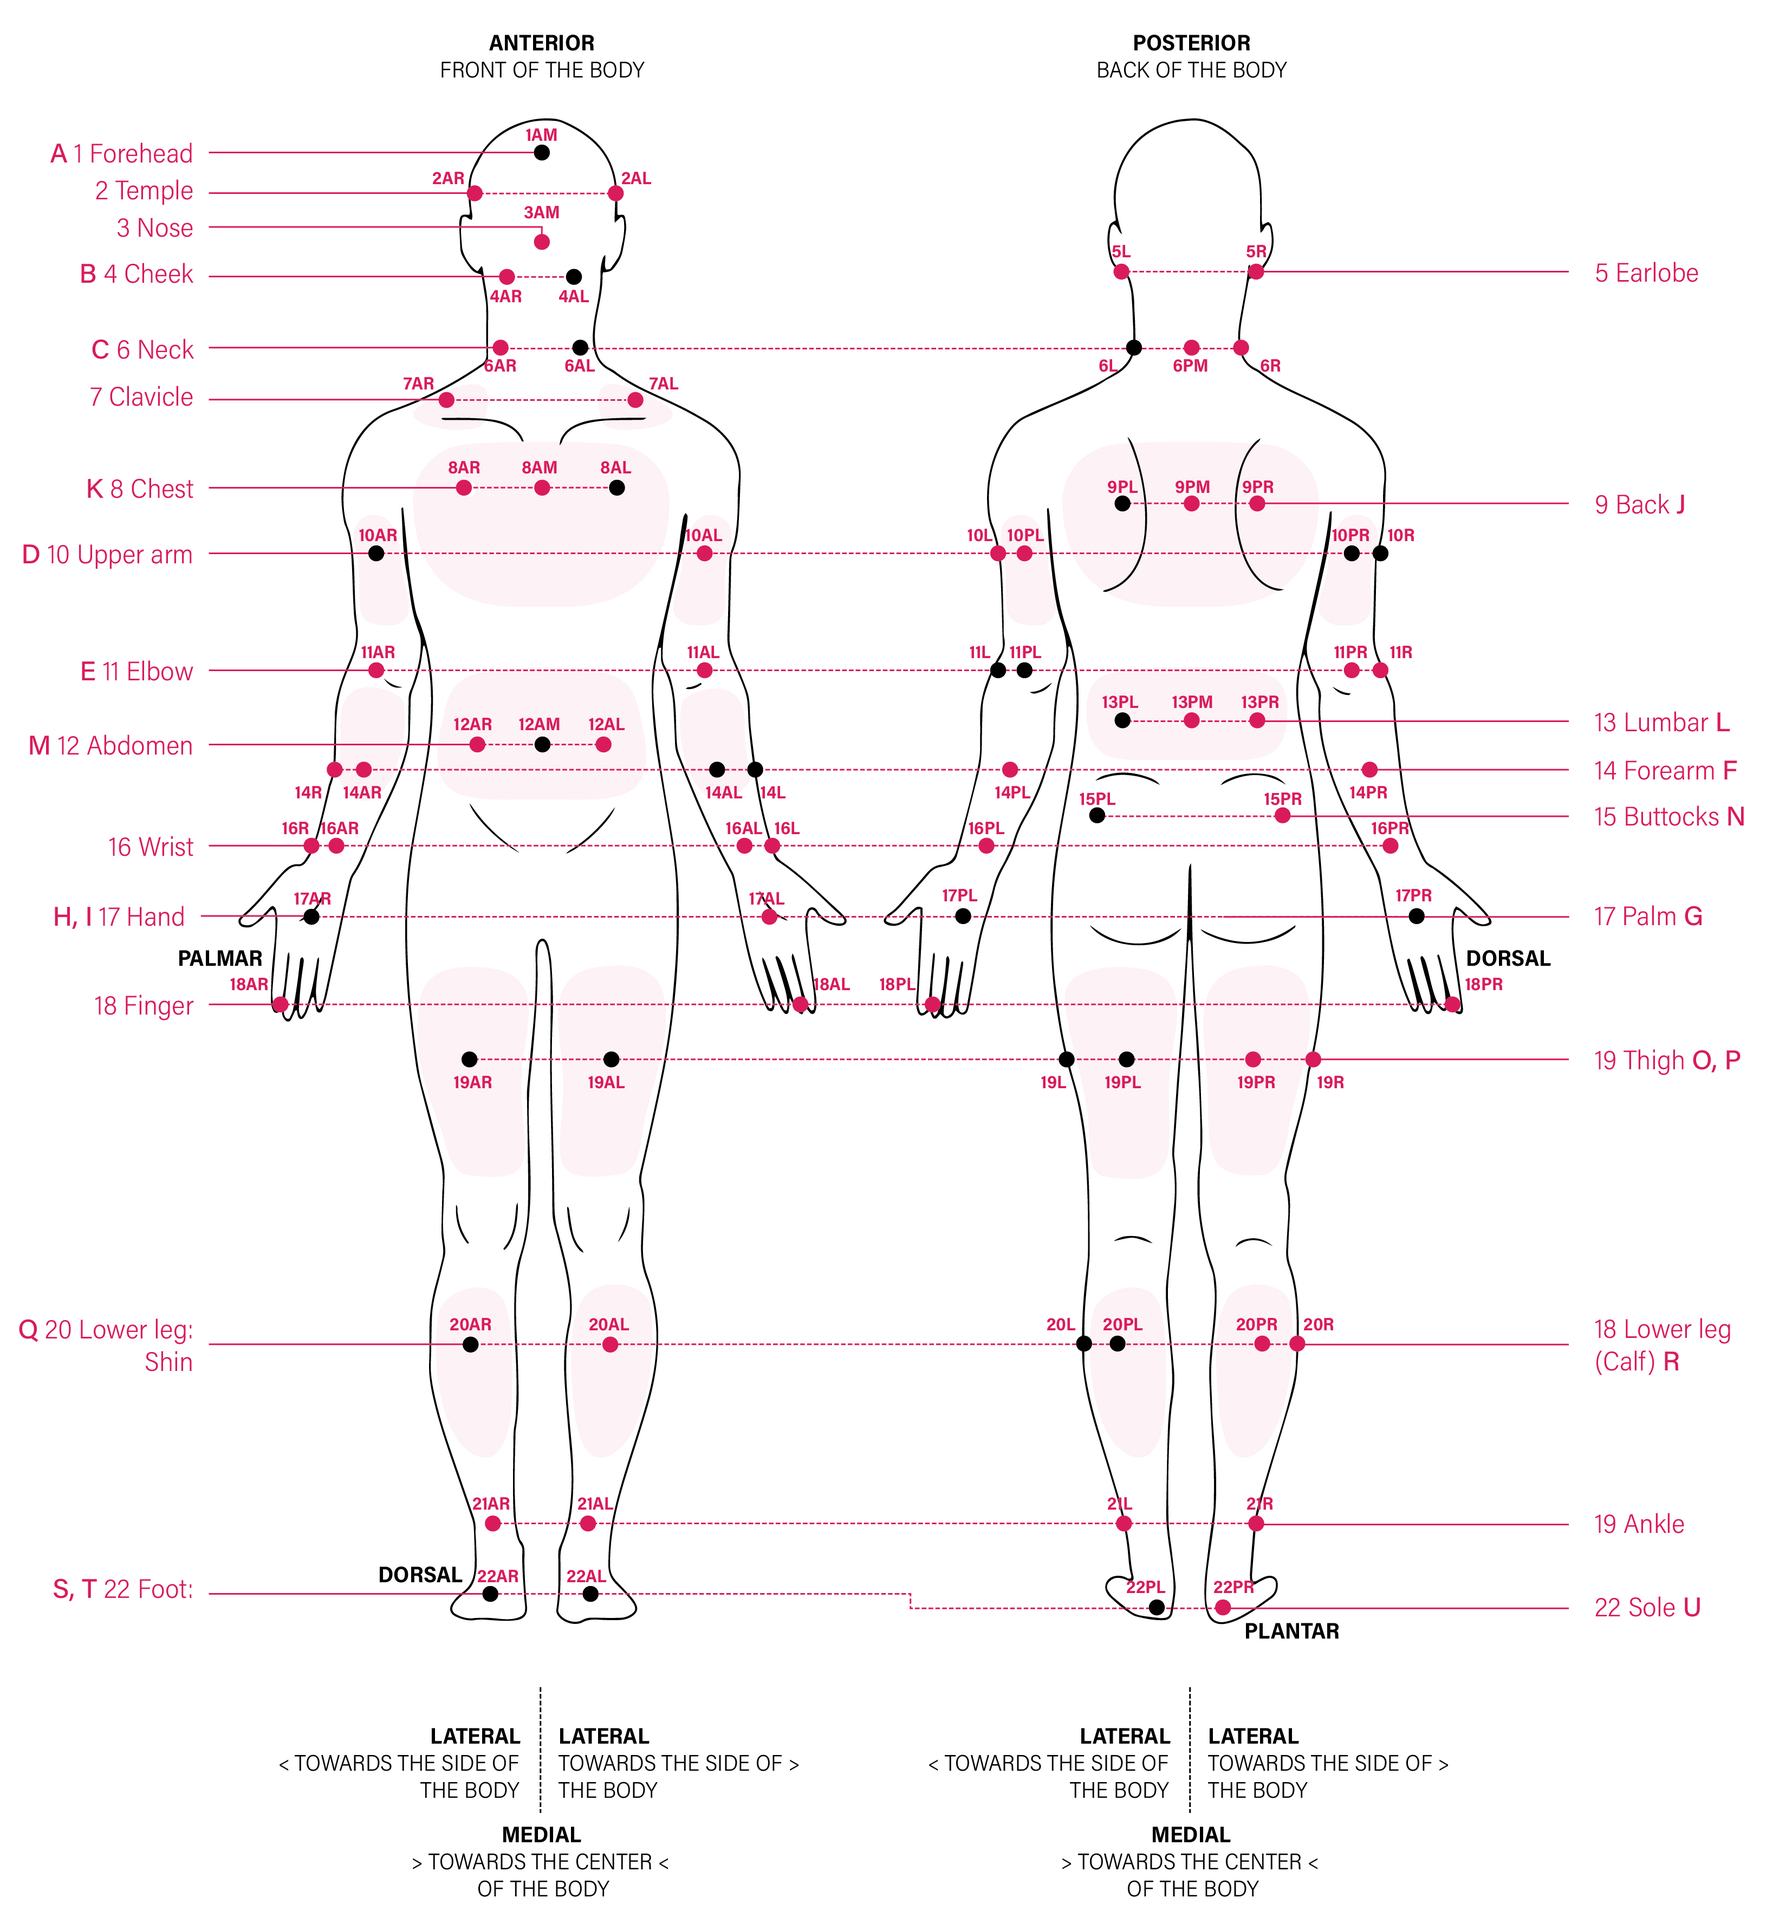
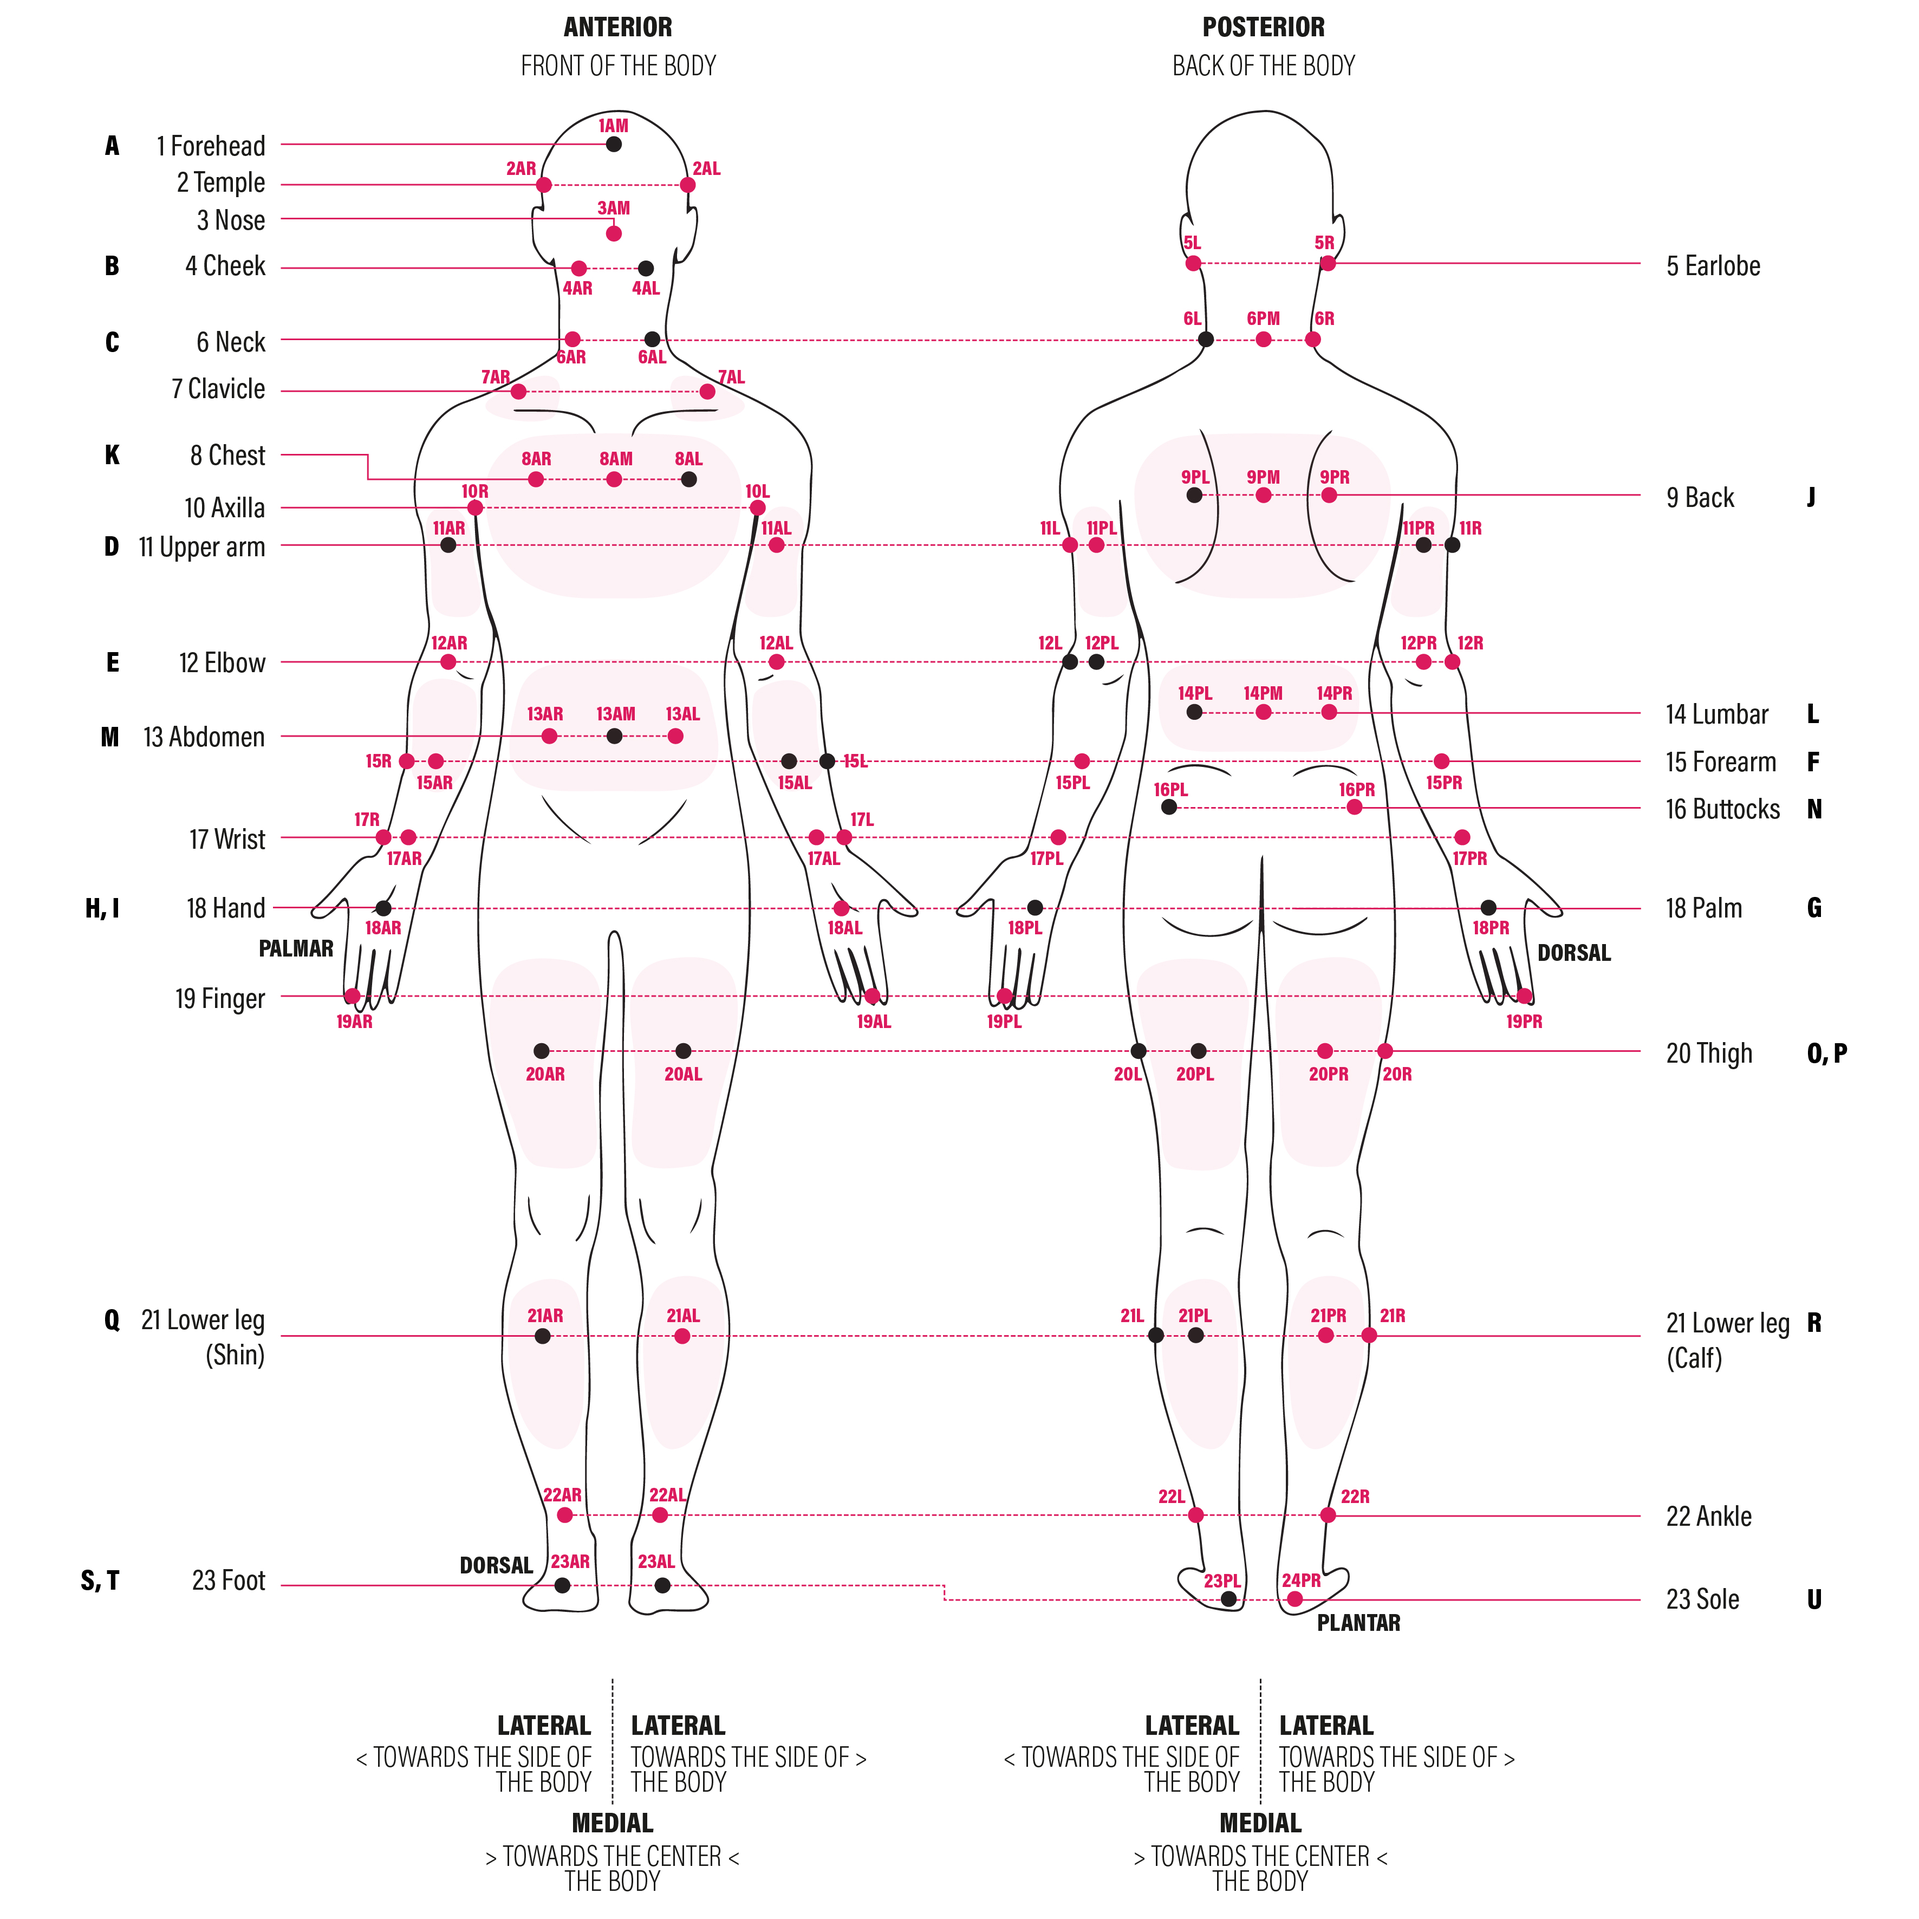
broken link maintenance

diff --git a/book/content/terminological-alignment/anatomical-reference-taxonomy.md b/book/content/terminological-alignment/anatomical-reference-taxonomy.md
@@ -4,7 +4,7 @@ This section compiles anatomical sites used for surface and internal physiologic
 
 Letters A--U from the previous chapter, {ref}`Mean Skin Temperature formulas <mean-skin-temperature-formulas>` are retained solely to map historical formulas to the standardised regions shown in the below Figure and Table.
 
-```{figure} C:/Users/kobas/00_Repos/2511_WhyWeMeasureWhat_Git/book/assets/figures/anatomical-taxonomy.jpg
+```{figure} ../../assets/figures/anatomical-taxonomy.jpg
 :name: fig-anatomical-taxonomy
 :width: 90%
 :alt: Body sites for surface measurements
@@ -20,28 +20,29 @@ Black points indicate site aspects explicitly represented in historical MST form
 
 | **Body domain** | **Region code** | **Site / region** | **{ref}`Laterality <label-laterality>`** | **Aspect / surface** | **Common aliases / variants** | **Typical modalities / signals** | **MST code(s)** | **Notes** |
 |---|---|---|---|---|---|---|---|---|
-| **Head** | 1 | Forehead | Midline | Anterior | Frontal region, brow | Skin temperature, IRT, zero-heat-flux CBT | A | Common in MST and facial thermography |
-|  | 2 | Temple | Left, Right | Lateral | Temporal region | IRT, facial temperature | — | Often analysed separately from forehead in facial thermography |
-|  | 3 | Nose | Midline | Anterior | Nasal dorsum, nasal tip, alar region | IRT, facial temperature | — | Relevant for respiratory heat exchange and facial thermography |
+| **Head** | 1 | Forehead | Midline | Anterior | Frontal region, brow | {ref}`Skin temperature <skin-temperature>`, IRT, zero-heat-flux CBT | A | Common in MST and facial thermography |
+|  | 2 | Temple | Left, Right | Lateral | Temporal region | Skin temperature, IRT | — | Often analysed separately from forehead in facial thermography |
+|  | 3 | Nose | Midline | Anterior | Nasal dorsum, nasal tip, alar region | Skin temperature, IRT | — | Relevant for respiratory heat exchange and facial thermography |
 |  | 4 | Cheek | Left, Right | Anterior | Malar region, zygomatic arch | Skin temperature, IRT | B | Common in facial thermography |
-|  | 5 | Earlobe | Left, Right | Inferior, Lateral | Auricular lobe | PPG, pulse oximetry, temperature | — | Sometimes preferred over finger because of local perfusion stability |
+|  | 5 | Earlobe | Left, Right | Inferior, Lateral | Auricular lobe | PPG, pulse oximetry | — | Sometimes preferred over finger because of local perfusion stability |
 |  | 6 | Neck | Midline, Left, Right | Anterior, Posterior, Lateral | Sternocleidomastoid, nape, nuchal area | Skin temperature, IRT | C | Exact placement should be specified |
-|  | 7 | Clavicular / supraclavicular region | Left, Right | Superior, Anterior | Supraclavicular fossa, clavicular region, over-the-shoulder region | IRT, skin temperature | — | Frequently used in BAT-related thermography studies |
+|  | 7 | Clavicular / supraclavicular region | Left, Right | Superior, Anterior | Supraclavicular fossa, clavicular region, over-the-shoulder region | Skin temperature, IRT | — | Frequently used in BAT-related thermography studies |
 | **Trunk** | 8 | Chest | Midline, Left, Right | Anterior | Pectoral region, sternum, thorax | Skin temperature, ECG, respiration, accelerometry | K | Must distinguish sternum from lateral chest |
-|  | 9 | Back | Midline, Left, Right | Posterior | Scapular, interscapular, upper thoracic region | Skin temperature, IRT | J | Should be distinguished from lumbar |
-|  | 10 | Upper arm | Left, Right | Anterior, Posterior, Lateral | Biceps, triceps, deltoid region | Skin temperature, cuff BP, PPG | D | Distinguish upper-arm skin from brachial cuff site |
-|  | 11 | Elbow | Left, Right | Anterior, Posterior | Cubital fossa, olecranon | Skin temperature | E | Anterior and posterior elbow are not equivalent |
-|  | 12 | Abdomen | Midline, Left, Right | Anterior | Umbilical region, epigastric, central abdomen | Skin temperature, IRT | M | Surface abdomen is distinct from gastrointestinal internal sites |
-|  | 13 | Lumbar | Midline, Left, Right | Posterior | Lumbar, flank, lumbosacral region | Skin temperature, IRT | L | Lower posterior trunk; often merged with “back” |
-|  | 14 | Forearm | Left, Right | Anterior, Posterior, Lateral | Antebrachial region | Skin temperature, PPG, EDA, IRT | F | Widely used due to accessibility |
-|  | 15 | Buttocks | Left, Right | Posterior | Gluteal region | Skin temperature | N | Included in extended body-surface formulas |
-|  | 16 | Wrist | Left, Right | Volar, Dorsal | Carpal region, radial wrist, volar wrist | PPG, skin temperature, cuffless BP, EDA | — | Exact side and surface should be specified |
-|  | 17 | Hand/Palm | Left, Right | Dorsal, Palmar | Hand: Dorsum of the hand; Palm: Volar hand | EDA, skin temperature | G, H, I | Palmar skin has distinct sudomotor properties |
-|  | 18 | Finger | Left, Right | Dorsal, Palmar | Fingertip, phalanx, digital area | PPG, SpO₂, skin temperature, EDA | — | Highly vasomotor-sensitive; digit and side should be reported |
-| **Lower limb** | 19 | Thigh | Midline, Left, Right | Anterior, Posterior | Quadriceps, hamstring | Skin temperature, IRT | O, P | Anterior and posterior thigh should be distinguished |
-|  | 20 | Lower leg: Calf/Shin | Left, Right | Anterior, Posterior | Shin: Tibial region; Calf: Gastrocnemius | Skin temperature, IRT | Q, R | Shin and calf should be distinguished whenever possible |
-|  | 21 | Ankle | Left, Right | Medial, Lateral, Posterior | Malleolar area, Achilles region | Skin temperature | — | Exact aspect matters substantially |
-|  | 22 | Foot/Sole | Left, Right | Dorsal, Plantar | Foot: Foot dorsum, instep; Sole: Plantar foot | Skin temperature, IRT, pressure, sweat | S, T, U | Plantar and dorsal surfaces are physiologically distinct |
+|  | 9 | Back | Midline, Left, Right | Posterior | Scapular, interscapular, upper back, upper thoracic region | Skin temperature, IRT | J | Should be distinguished from lumbar |
+|  | 10 | Axilla | Left, Right | Medial / recessed | Armpit, axillary region | Skin temperature, core body temperature proxy | — | Specify contact method and arm position |
+|  | 11 | Upper arm | Left, Right | Anterior, Posterior, Lateral | Biceps, triceps, deltoid region | Skin temperature, cuff BP, PPG | D | Distinguish upper-arm skin from brachial cuff site |
+|  | 12 | Elbow | Left, Right | Anterior, Posterior | Cubital fossa, olecranon | Skin temperature | E | Anterior and posterior elbow are not equivalent |
+|  | 13 | Abdomen | Midline, Left, Right | Anterior | Umbilical region, epigastric, central abdomen | Skin temperature, IRT | M | Surface abdomen is distinct from gastrointestinal internal sites |
+|  | 14 | Lumbar | Midline, Left, Right | Posterior | Lower back, flank, lumbosacral region | Skin temperature, IRT | L | Lower posterior trunk; often merged with “back” |
+|  | 15 | Forearm | Left, Right | Anterior, Posterior, Lateral | Antebrachial region | Skin temperature, PPG, EDA, IRT | F | Widely used due to accessibility |
+|  | 16 | Buttocks | Left, Right | Posterior | Gluteal region | Skin temperature | N | Included in extended body-surface formulas |
+|  | 17 | Wrist | Left, Right | Volar, Dorsal | Carpal region, radial wrist, volar wrist | PPG, skin temperature, cuffless BP, EDA | — | Exact side and surface should be specified |
+|  | 18 | Hand/Palm | Left, Right | Dorsal, Palmar | Hand: Dorsum of the hand; Palm: Volar hand | EDA, skin temperature | G, H, I | Palmar skin has distinct sudomotor properties |
+|  | 19 | Finger | Left, Right | Dorsal, Palmar | Fingertip, phalanx, digital area | PPG, SpO₂, skin temperature, EDA | — | Highly vasomotor-sensitive; digit and side should be reported |
+| **Lower limb** | 20 | Thigh | Midline, Left, Right | Anterior, Posterior | Quadriceps, hamstring | Skin temperature, IRT | O, P | Anterior and posterior thigh should be distinguished |
+|  | 21 | Lower leg: Calf/Shin | Left, Right | Anterior, Posterior | Shin: Tibial region; Calf: Gastrocnemius | Skin temperature, IRT | Q, R | Shin and calf should be distinguished whenever possible |
+|  | 22 | Ankle | Left, Right | Medial, Lateral, Posterior | Malleolar area, Achilles region | Skin temperature | — | Exact aspect matters substantially |
+|  | 23 | Foot/Sole | Left, Right | Dorsal, Plantar | Foot: Foot dorsum, instep; Sole: Plantar foot | Skin temperature, IRT, pressure, sweat | S, T, U | Plantar and dorsal surfaces are physiologically distinct |
 :::
 
 ### Cavity-based measurement sites
@@ -51,9 +52,9 @@ Black points indicate site aspects explicitly represented in historical MST form
 
 | **Body domain** | **Region code** | **Site / region** | **Laterality** | **Aspect / surface** | **Common aliases / variants** | **Typical modalities / signals** | **MST code(s)** | **Notes** |
 |---|---|---|---|---|---|---|---|---|
-| **Head** | 23 | Ear canal/Tympanic site | Left, Right | — | Aural canal, tympanic canal | Core body temperature proxy | — | Distinguish ear-canal measurement from true tympanic measurement |
-|  | 24 | Oral cavity | — | Sublingual/Oral | Sublingual, oral temperature | Core body temperature proxy | — | Oral and sublingual measurements should be distinguished |
-| **Trunk** | 25 | Rectum | — | — | Rectal site | Core body temperature | — | Depth of insertion strongly affects comparability |
+| **Head** | 24 | Ear canal/Tympanic site | Left, Right | — | Aural canal, tympanic canal | Core body temperature proxy | — | Distinguish ear-canal measurement from true tympanic measurement |
+|  | 25 | Oral cavity | — | Sublingual/Oral | Sublingual, oral temperature | Core body temperature proxy | — | Oral and sublingual measurements should be distinguished |
+| **Trunk** | 26 | Rectum | — | — | Rectal site | Core body temperature | — | Depth of insertion strongly affects comparability |
 :::
 
 ### Internal measurement sites
@@ -63,8 +64,8 @@ Black points indicate site aspects explicitly represented in historical MST form
 
 | **Body domain** | **Region code** | **Site / region** | **Laterality** | **Aspect / surface** | **Common aliases / variants** | **Typical modalities / signals** | **MST code(s)** | **Notes** |
 |---|---|---|---|---|---|---|---|---|
-| **Trunk** | 26 | Gastrointestinal tract | — | — | GI lumen, intestinal site | CBT pill / ingestible telemetry | — | Used in ambulatory and exercise physiology studies |
-|  | 27 | Oesophagus | — | — | Esophageal site | Core body temperature | — | Insertion depth should always be reported |
-|  | 28 | Bladder | — | — | Vesical site | Core body temperature | — | Mostly clinical / catheter-based |
-|  | 29 | Pulmonary artery | — | — | PA catheter site | Core body temperature | — | Clinical gold standard; highly invasive |
+| **Trunk** | 27 | Gastrointestinal tract | — | — | GI lumen, intestinal site | Core body temperature | — | Used in ambulatory and exercise physiology studies |
+|  | 28 | Oesophagus | — | — | Esophageal site | Core body temperature | — | Insertion depth should always be reported |
+|  | 29 | Bladder | — | — | Vesical site | Core body temperature | — | Mostly clinical / catheter-based |
+|  | 30 | Pulmonary artery | — | — | PA catheter site | Core body temperature | — | Clinical gold standard; highly invasive |
 :::
